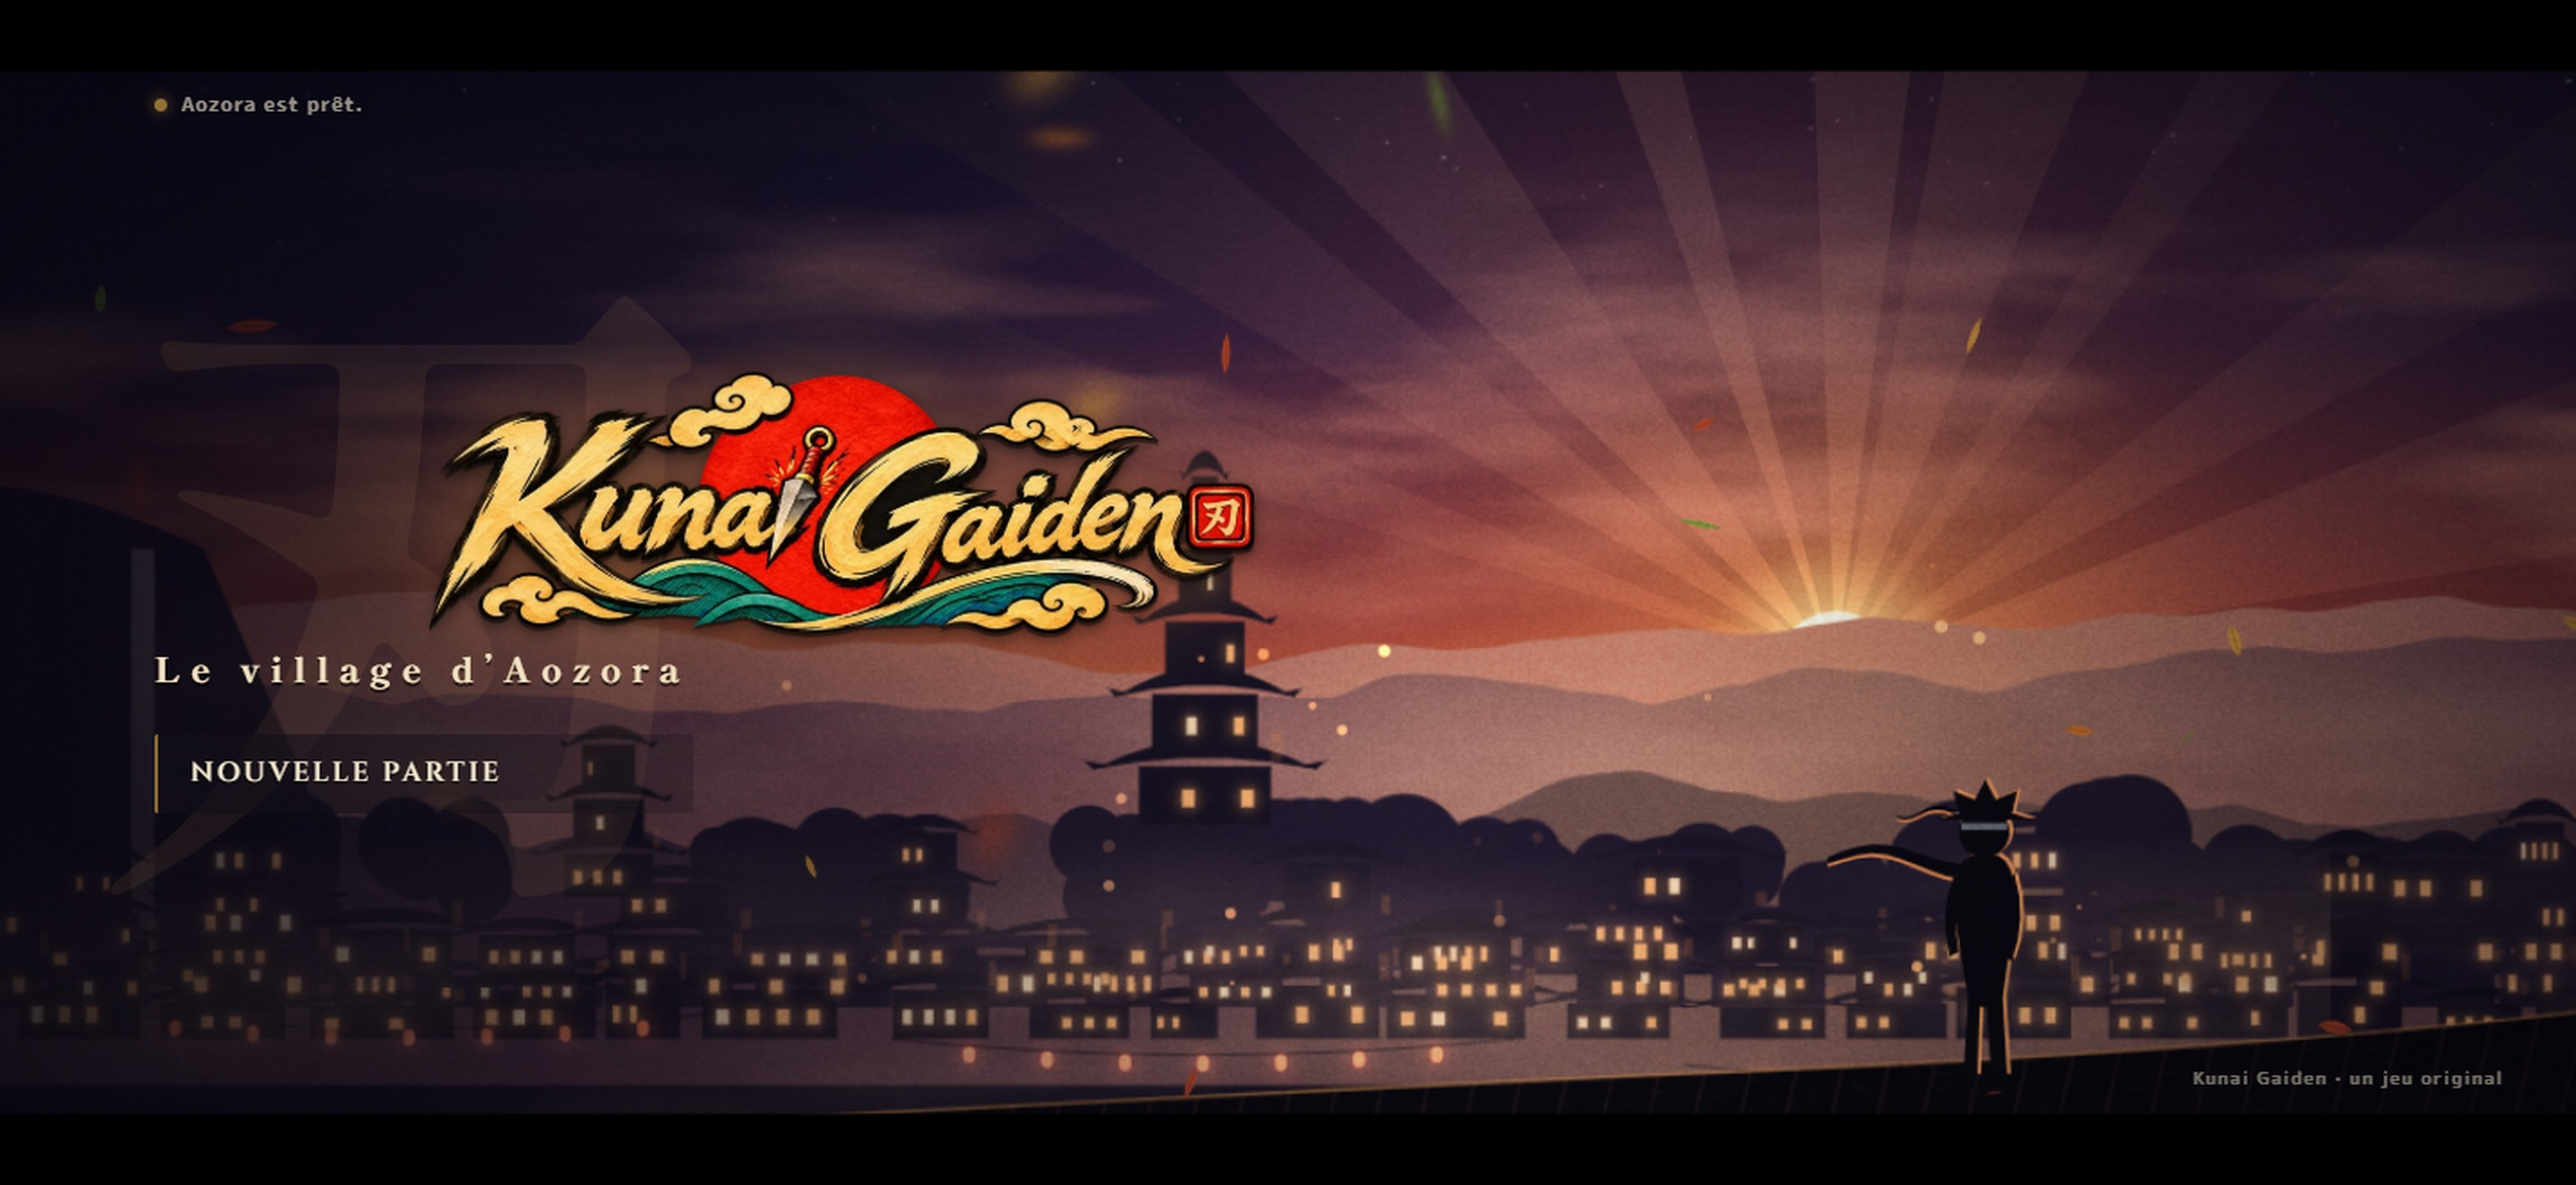
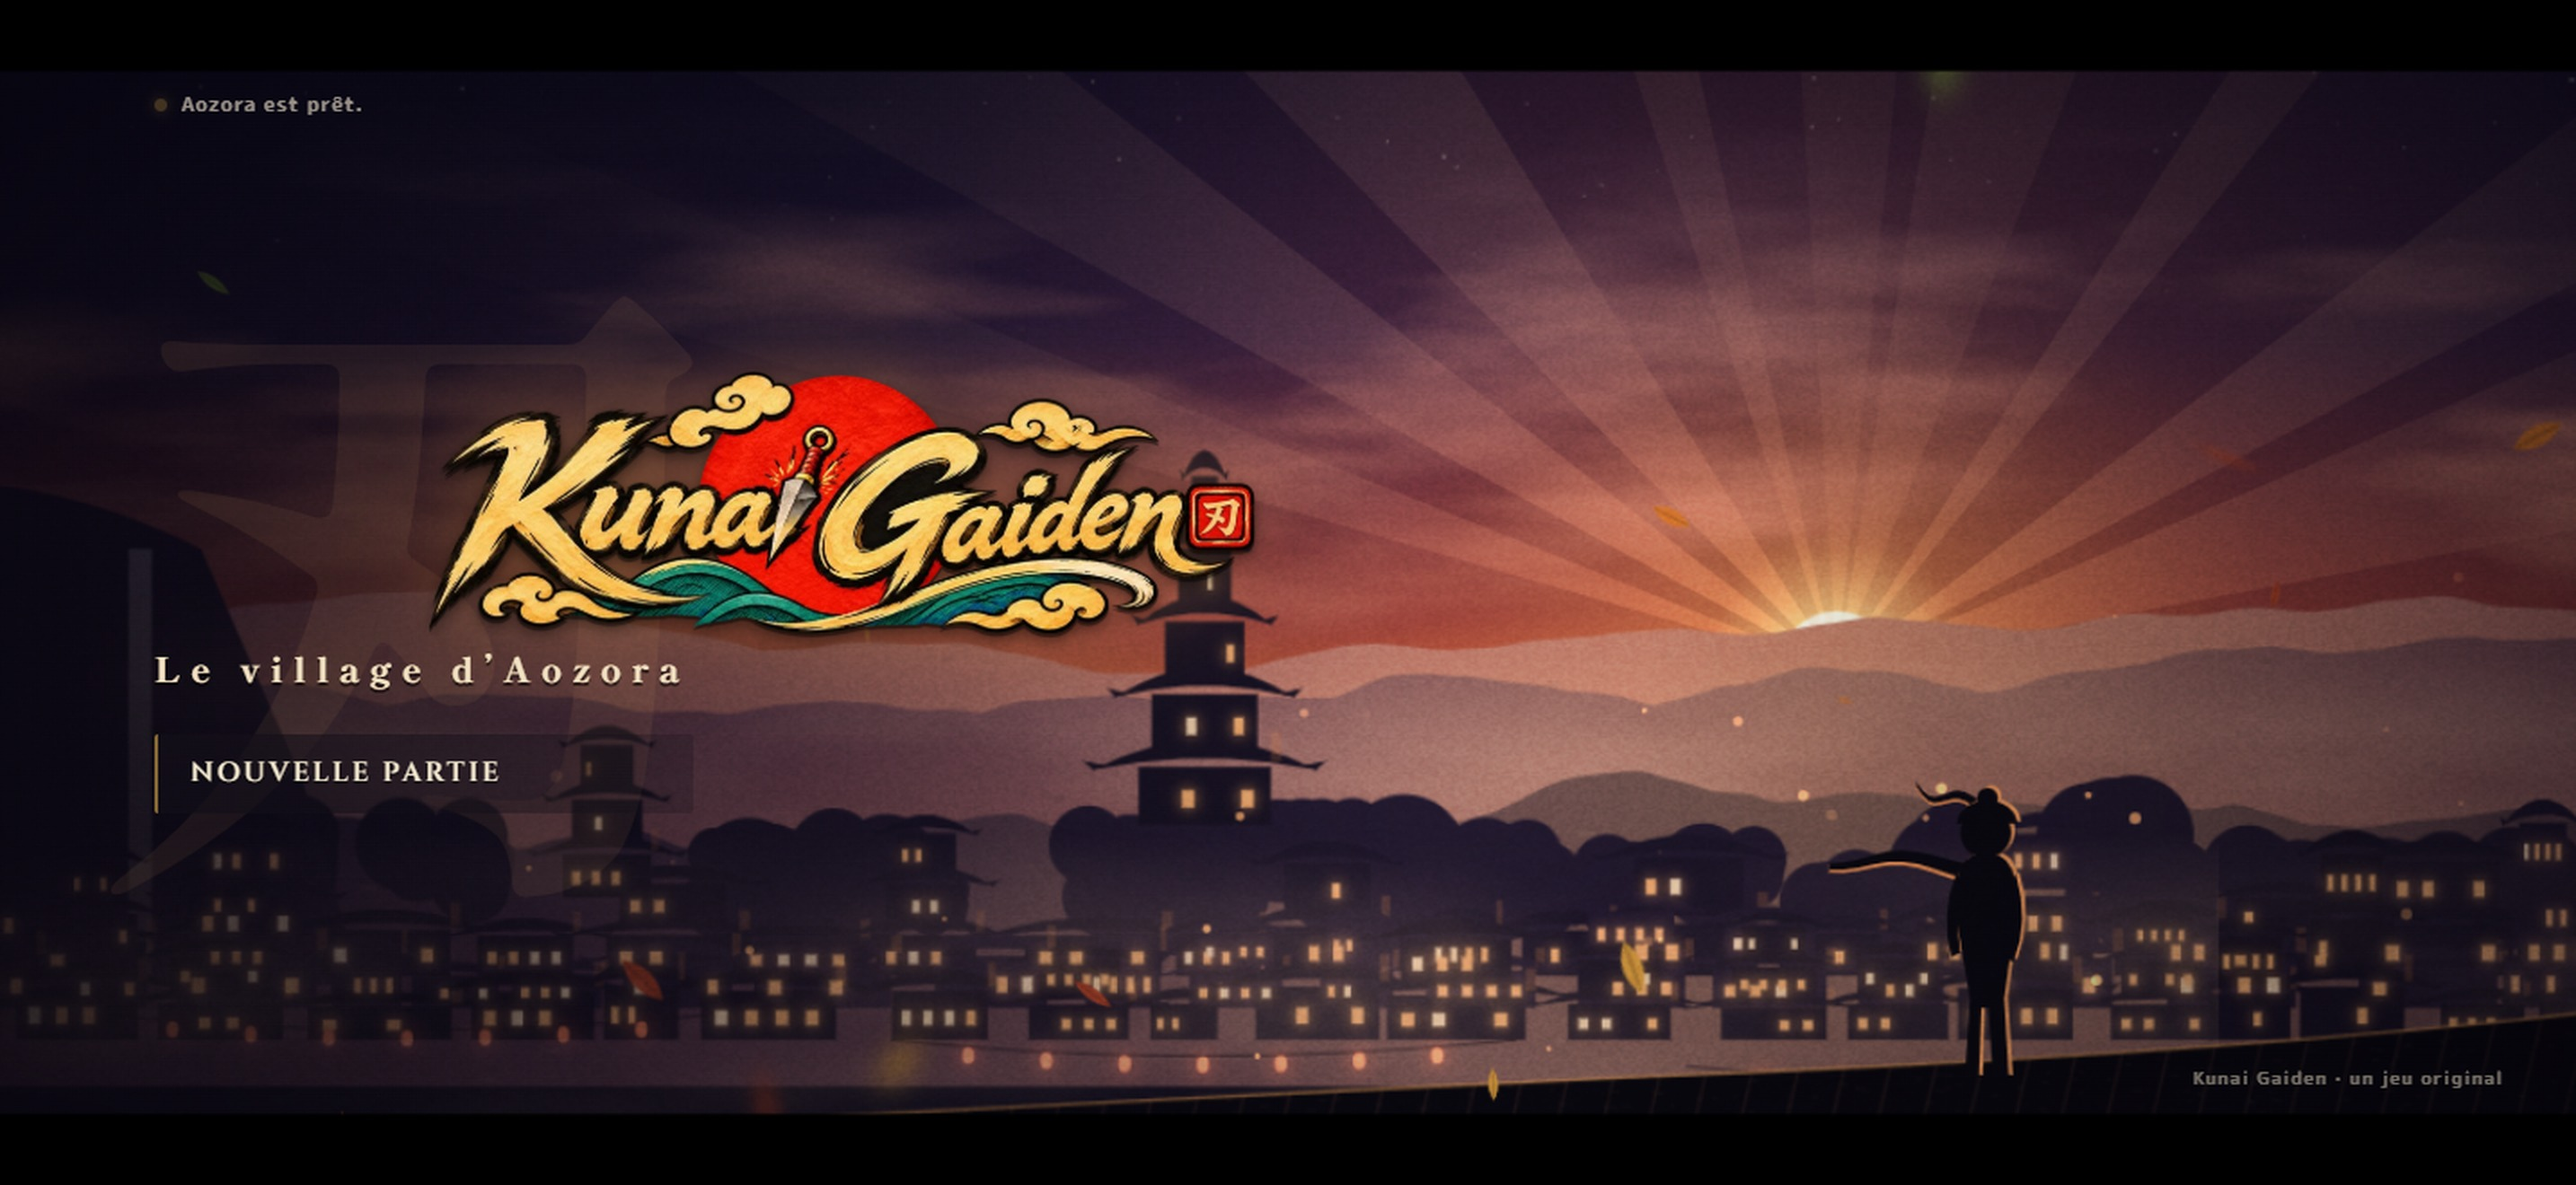
Title screen ninja silhouette: topknot and scarf (matches the new hero art)

diff --git a/ios/KunaiGaiden/Web/index.html b/ios/KunaiGaiden/Web/index.html
@@ -4699,23 +4699,23 @@ window.KSEAL = (() => {
     for (const blur of [0, 2, 5]) LS.push(LC.map(c => { const s = 44, cn = mk(s, s), lq2 = cn.getContext('2d'); if (blur) lq2.filter = `blur(${blur}px)`; lq2.translate(s / 2, s / 2); lq2.fillStyle = c; lq2.beginPath(); lq2.moveTo(-12, 0); lq2.quadraticCurveTo(0, -9, 12, 0); lq2.quadraticCurveTo(0, 9, -12, 0); lq2.fill(); lq2.strokeStyle = 'rgba(0,0,0,.25)'; lq2.lineWidth = 1; lq2.beginPath(); lq2.moveTo(-11, 0); lq2.lineTo(11, 0); lq2.stroke(); return cn; }));
     return Ly; }
 
-  // the ninja: back to us, facing the village; scarf and headband tails in the wind; rim light from the sun
+  // the ninja: back to us, facing the village; scarf and ponytail in the wind; rim light from the sun
   function ninja(q, x, y, s, t) { const wind = Math.sin(t * 2.1) * .5 + Math.sin(t * 3.7) * .3;
     const body = col => { q.fillStyle = col; q.beginPath();
       q.moveTo(x - 9 * s, y); q.lineTo(x - 7 * s, y - 34 * s); q.lineTo(x - 13 * s, y - 70 * s); q.quadraticCurveTo(x - 15 * s, y - 92 * s, x - 6 * s, y - 96 * s); q.lineTo(x + 6 * s, y - 96 * s); q.quadraticCurveTo(x + 15 * s, y - 92 * s, x + 13 * s, y - 70 * s); q.lineTo(x + 8 * s, y - 34 * s); q.lineTo(x + 10 * s, y); q.lineTo(x + 3 * s, y); q.lineTo(x + 1 * s, y - 30 * s); q.lineTo(x - 2 * s, y - 30 * s); q.lineTo(x - 3 * s, y); q.closePath(); q.fill();
       // arms, one hand on the kunai pouch
       q.beginPath(); q.moveTo(x - 13 * s, y - 88 * s); q.quadraticCurveTo(x - 20 * s, y - 70 * s, x - 15 * s, y - 52 * s); q.lineTo(x - 11 * s, y - 54 * s); q.quadraticCurveTo(x - 14 * s, y - 70 * s, x - 9 * s, y - 84 * s); q.fill();
       q.beginPath(); q.moveTo(x + 13 * s, y - 88 * s); q.quadraticCurveTo(x + 19 * s, y - 68 * s, x + 12 * s, y - 50 * s); q.lineTo(x + 8 * s, y - 52 * s); q.quadraticCurveTo(x + 13 * s, y - 68 * s, x + 9 * s, y - 84 * s); q.fill();
-      // head and spiky hair
+      // head, tousled hair and a tied-up topknot
       q.beginPath(); q.arc(x, y - 106 * s, 11 * s, 0, 7); q.fill();
-      q.beginPath(); for (let i = 0; i <= 8; i++) { const a = Math.PI * (1.05 + i / 8 * .9), r = (i % 2 ? 13 : 21) * s, sw = wind * 2 * s * (i / 8); q.lineTo(x + Math.cos(a) * r - sw, y - 108 * s + Math.sin(a) * r); } q.fill(); };
-    // scarf and headband tails behind, waving to the left
+      q.beginPath(); q.ellipse(x - wind * s, y - 110 * s, 13 * s, 10 * s, 0, Math.PI, 0); q.fill();
+      q.beginPath(); q.arc(x - wind * 1.5 * s, y - 121 * s, 4.5 * s, 0, 7); q.fill(); };
+    // scarf and ponytail behind, waving to the left
     const tail = (y0, len, wd, ph) => { q.beginPath(); q.moveTo(x - 4 * s, y0); for (let i = 1; i <= 10; i++) { const u = i / 10; q.lineTo(x - 4 * s - u * len * s, y0 + Math.sin(t * 5 + u * 5 + ph) * u * 7 * s + wind * u * 8 * s - u * 4 * s); }
       for (let i = 10; i >= 0; i--) { const u = i / 10; q.lineTo(x - 4 * s - u * len * s, y0 + wd * s * (1 - u * .6) + Math.sin(t * 5 + u * 5 + ph) * u * 7 * s + wind * u * 8 * s - u * 4 * s); } q.fill(); };
-    q.fillStyle = '#ff9a5a'; tail(y - 92 * s + 1, 64, 8, 0); tail(y - 112 * s + 1, 34, 3, 1.3);
-    q.fillStyle = '#0b0912'; tail(y - 92 * s, 64, 7, 0); tail(y - 112 * s, 34, 2.4, 1.3);
+    q.fillStyle = '#ff9a5a'; tail(y - 92 * s + 1, 64, 8, 0); tail(y - 121 * s + 1, 26, 5, 1.3);
+    q.fillStyle = '#0b0912'; tail(y - 92 * s, 64, 7, 0); tail(y - 121 * s, 26, 4.4, 1.3);   // scarf, ponytail
     q.save(); q.translate(1.6 * s, -1 * s); body('#ffa463'); q.restore(); body('#0b0912');
-    q.fillStyle = 'rgba(190,200,215,.55)'; q.fillRect(x - 10 * s, y - 110 * s, 20 * s, 3 * s);   // the headband's metal plate catching the light
   }
 
   function resize() { const r = Math.min(1.25, devicePixelRatio || 1) * (document.body.classList.contains('touch') ? .9 : 1); W = Math.round(innerWidth * r); H = Math.round(innerHeight * r); cv.width = W; cv.height = H; L = paint();

diff --git a/games/kunai-gaiden/src/title.js b/games/kunai-gaiden/src/title.js
@@ -122,23 +122,23 @@
     for (const blur of [0, 2, 5]) LS.push(LC.map(c => { const s = 44, cn = mk(s, s), lq2 = cn.getContext('2d'); if (blur) lq2.filter = `blur(${blur}px)`; lq2.translate(s / 2, s / 2); lq2.fillStyle = c; lq2.beginPath(); lq2.moveTo(-12, 0); lq2.quadraticCurveTo(0, -9, 12, 0); lq2.quadraticCurveTo(0, 9, -12, 0); lq2.fill(); lq2.strokeStyle = 'rgba(0,0,0,.25)'; lq2.lineWidth = 1; lq2.beginPath(); lq2.moveTo(-11, 0); lq2.lineTo(11, 0); lq2.stroke(); return cn; }));
     return Ly; }
 
-  // the ninja: back to us, facing the village; scarf and headband tails in the wind; rim light from the sun
+  // the ninja: back to us, facing the village; scarf and ponytail in the wind; rim light from the sun
   function ninja(q, x, y, s, t) { const wind = Math.sin(t * 2.1) * .5 + Math.sin(t * 3.7) * .3;
     const body = col => { q.fillStyle = col; q.beginPath();
       q.moveTo(x - 9 * s, y); q.lineTo(x - 7 * s, y - 34 * s); q.lineTo(x - 13 * s, y - 70 * s); q.quadraticCurveTo(x - 15 * s, y - 92 * s, x - 6 * s, y - 96 * s); q.lineTo(x + 6 * s, y - 96 * s); q.quadraticCurveTo(x + 15 * s, y - 92 * s, x + 13 * s, y - 70 * s); q.lineTo(x + 8 * s, y - 34 * s); q.lineTo(x + 10 * s, y); q.lineTo(x + 3 * s, y); q.lineTo(x + 1 * s, y - 30 * s); q.lineTo(x - 2 * s, y - 30 * s); q.lineTo(x - 3 * s, y); q.closePath(); q.fill();
       // arms, one hand on the kunai pouch
       q.beginPath(); q.moveTo(x - 13 * s, y - 88 * s); q.quadraticCurveTo(x - 20 * s, y - 70 * s, x - 15 * s, y - 52 * s); q.lineTo(x - 11 * s, y - 54 * s); q.quadraticCurveTo(x - 14 * s, y - 70 * s, x - 9 * s, y - 84 * s); q.fill();
       q.beginPath(); q.moveTo(x + 13 * s, y - 88 * s); q.quadraticCurveTo(x + 19 * s, y - 68 * s, x + 12 * s, y - 50 * s); q.lineTo(x + 8 * s, y - 52 * s); q.quadraticCurveTo(x + 13 * s, y - 68 * s, x + 9 * s, y - 84 * s); q.fill();
-      // head and spiky hair
+      // head, tousled hair and a tied-up topknot
       q.beginPath(); q.arc(x, y - 106 * s, 11 * s, 0, 7); q.fill();
-      q.beginPath(); for (let i = 0; i <= 8; i++) { const a = Math.PI * (1.05 + i / 8 * .9), r = (i % 2 ? 13 : 21) * s, sw = wind * 2 * s * (i / 8); q.lineTo(x + Math.cos(a) * r - sw, y - 108 * s + Math.sin(a) * r); } q.fill(); };
-    // scarf and headband tails behind, waving to the left
+      q.beginPath(); q.ellipse(x - wind * s, y - 110 * s, 13 * s, 10 * s, 0, Math.PI, 0); q.fill();
+      q.beginPath(); q.arc(x - wind * 1.5 * s, y - 121 * s, 4.5 * s, 0, 7); q.fill(); };
+    // scarf and ponytail behind, waving to the left
     const tail = (y0, len, wd, ph) => { q.beginPath(); q.moveTo(x - 4 * s, y0); for (let i = 1; i <= 10; i++) { const u = i / 10; q.lineTo(x - 4 * s - u * len * s, y0 + Math.sin(t * 5 + u * 5 + ph) * u * 7 * s + wind * u * 8 * s - u * 4 * s); }
       for (let i = 10; i >= 0; i--) { const u = i / 10; q.lineTo(x - 4 * s - u * len * s, y0 + wd * s * (1 - u * .6) + Math.sin(t * 5 + u * 5 + ph) * u * 7 * s + wind * u * 8 * s - u * 4 * s); } q.fill(); };
-    q.fillStyle = '#ff9a5a'; tail(y - 92 * s + 1, 64, 8, 0); tail(y - 112 * s + 1, 34, 3, 1.3);
-    q.fillStyle = '#0b0912'; tail(y - 92 * s, 64, 7, 0); tail(y - 112 * s, 34, 2.4, 1.3);
+    q.fillStyle = '#ff9a5a'; tail(y - 92 * s + 1, 64, 8, 0); tail(y - 121 * s + 1, 26, 5, 1.3);
+    q.fillStyle = '#0b0912'; tail(y - 92 * s, 64, 7, 0); tail(y - 121 * s, 26, 4.4, 1.3);   // scarf, ponytail
     q.save(); q.translate(1.6 * s, -1 * s); body('#ffa463'); q.restore(); body('#0b0912');
-    q.fillStyle = 'rgba(190,200,215,.55)'; q.fillRect(x - 10 * s, y - 110 * s, 20 * s, 3 * s);   // the headband's metal plate catching the light
   }
 
   function resize() { const r = Math.min(1.25, devicePixelRatio || 1) * (document.body.classList.contains('touch') ? .9 : 1); W = Math.round(innerWidth * r); H = Math.round(innerHeight * r); cv.width = W; cv.height = H; L = paint();
